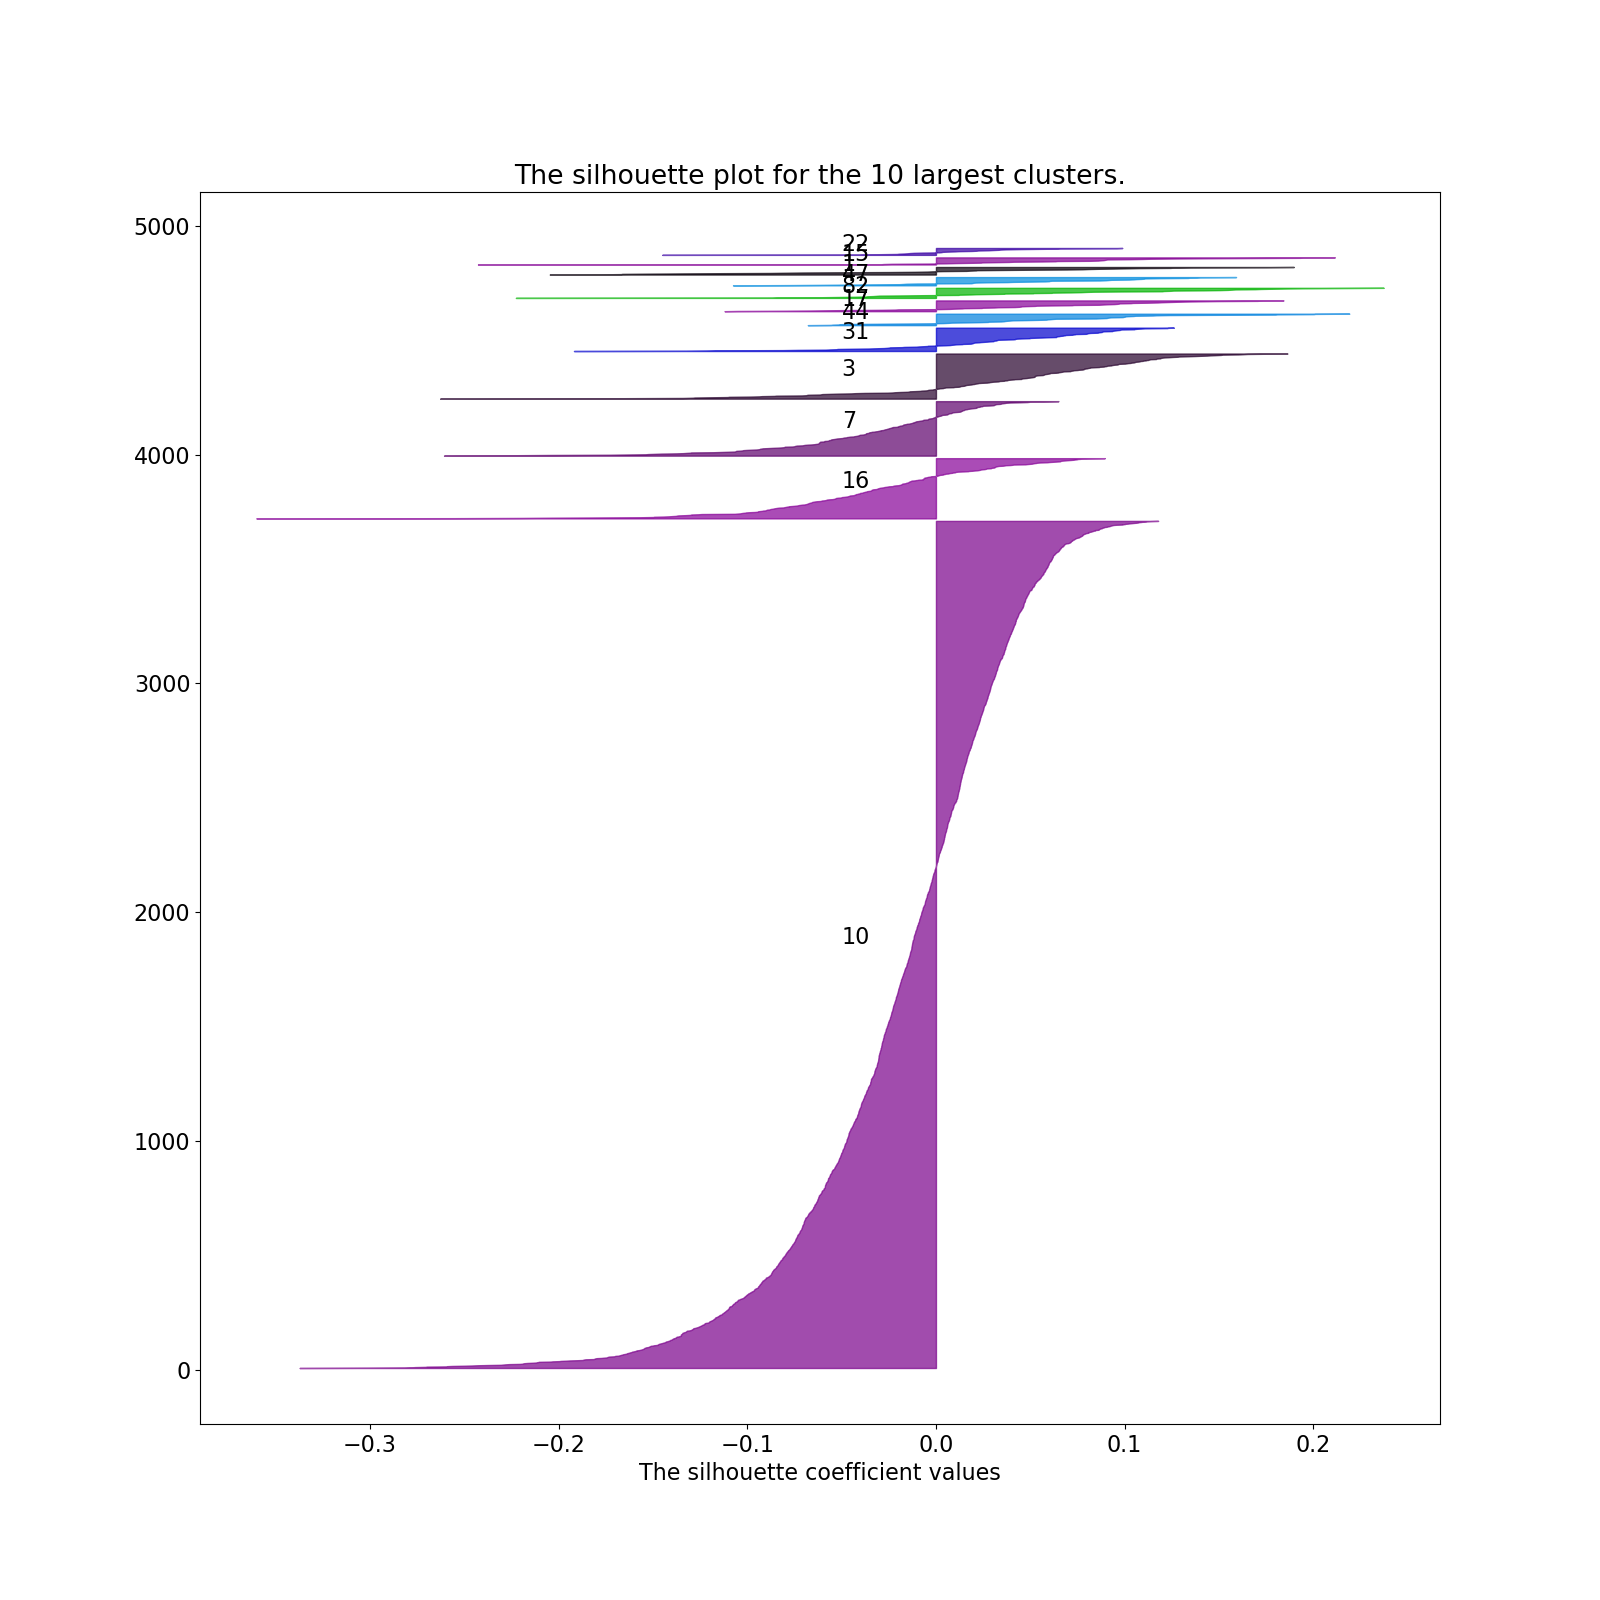
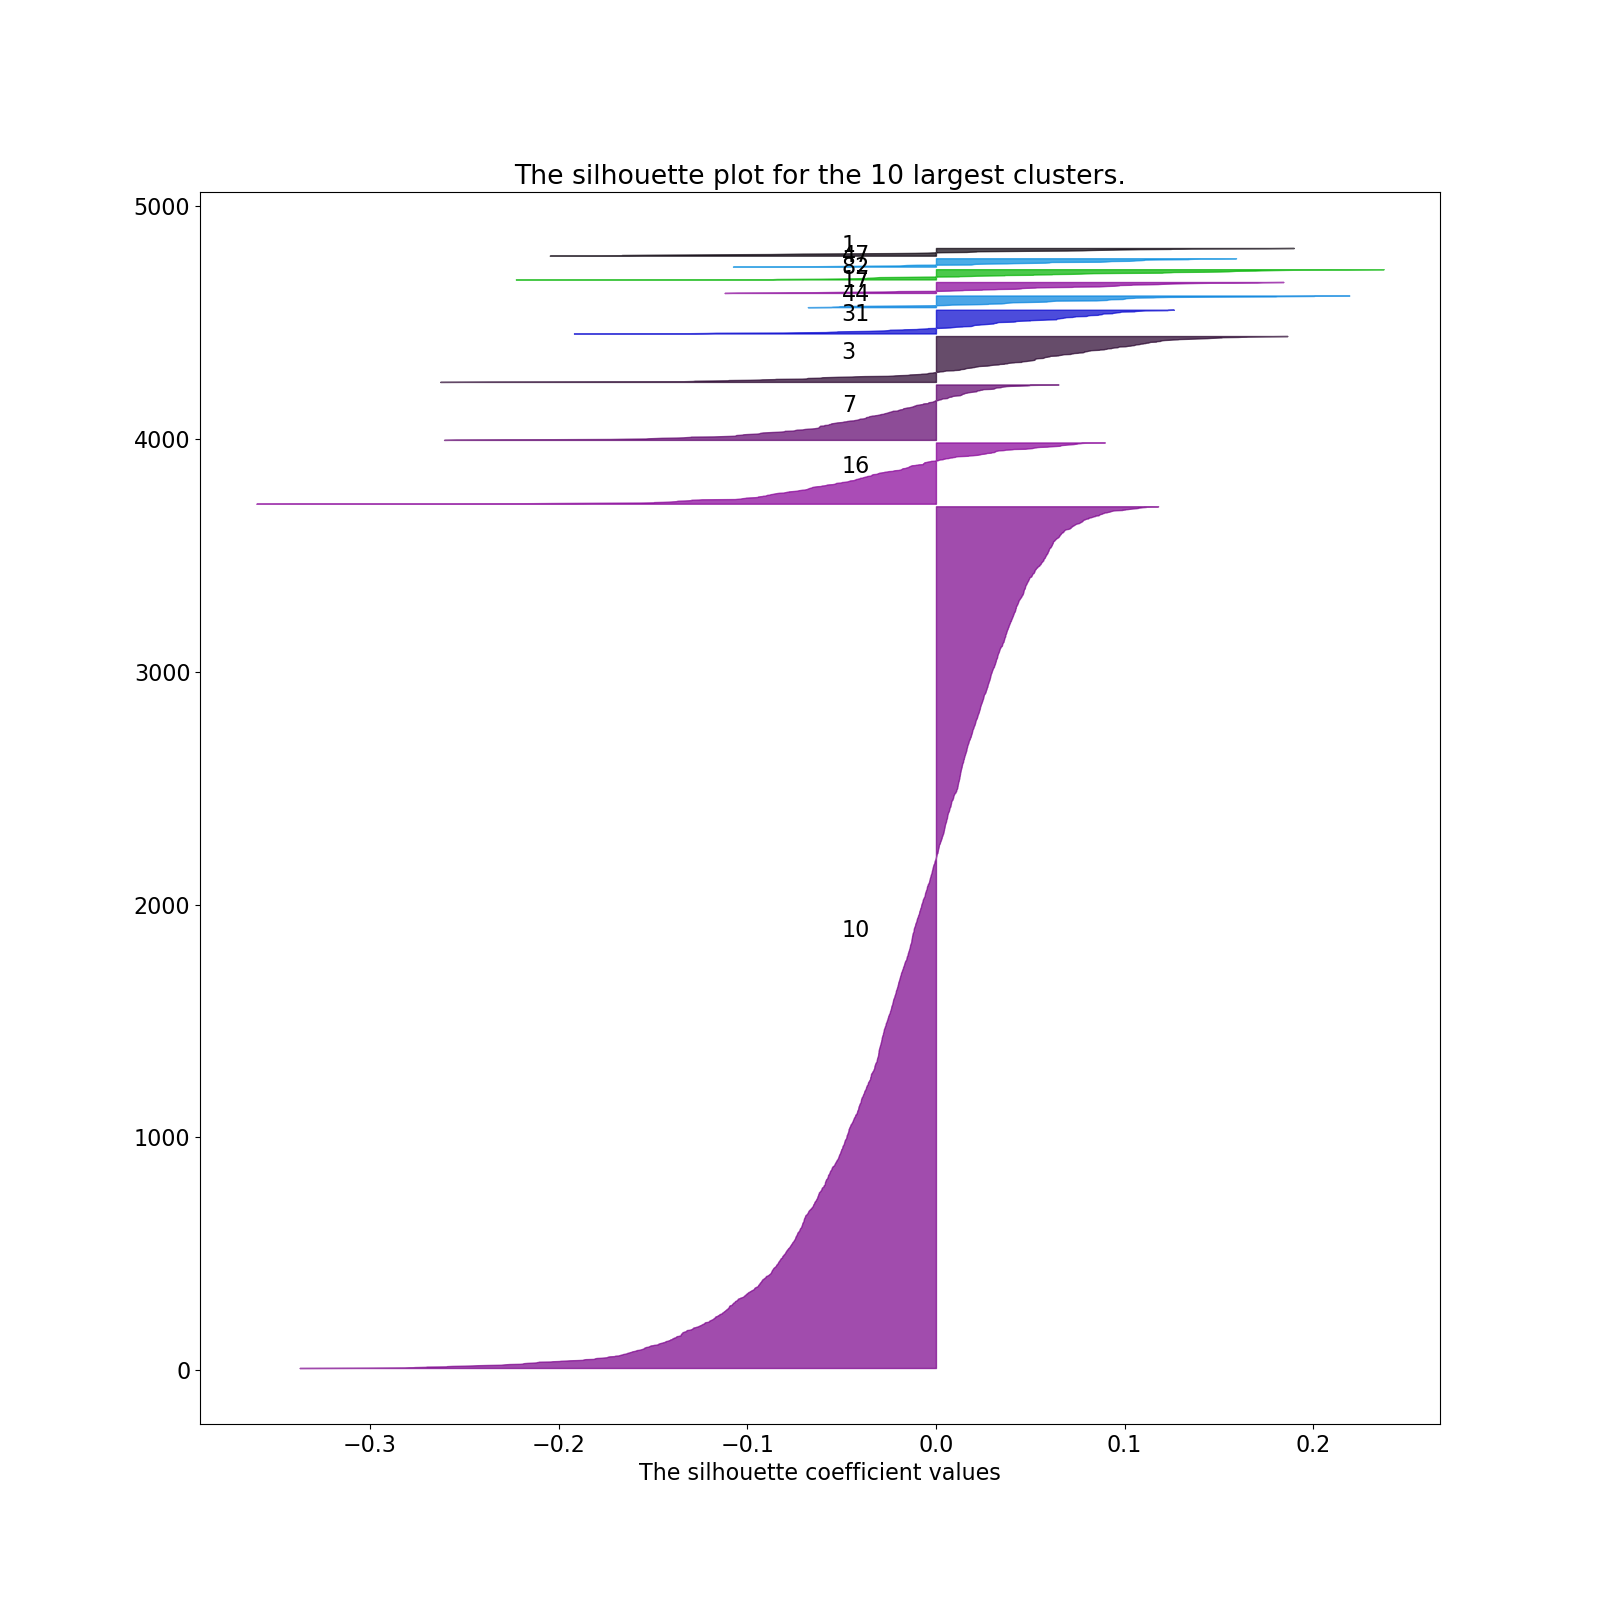
minor

diff --git a/pocket_cluster_analysis/subcluster_gen.py b/pocket_cluster_analysis/subcluster_gen.py
@@ -3,6 +3,8 @@ import numpy as np
 from compute_similarity import read_cluster_file
 from sklearn.cluster import AffinityPropagation
 from sklearn.cluster import AgglomerativeClustering
+from sklearn.cluster import AgglomerativeClustering
+from sklearn.cluster import DBSCAN
 from sklearn_extra.cluster import KMedoids
 from sklearn import metrics
 import matplotlib
@@ -79,7 +81,7 @@ def plot_silhouette_scores(silhouette_scores, cluster_labels, num_clusters_to_pl
         # Compute the new y_lower for next plot
         y_lower = y_upper + 10  # 10 for the 0 samples      
 
-        if cnt > num_clusters_to_plot:
+        if cnt >= num_clusters_to_plot-1:
             break
 
     ax.set_title("The silhouette plot for the {} largest clusters.".format(num_clusters_to_plot))
@@ -134,11 +136,15 @@ if __name__=="__main__":
         kmedoids_clustering = KMedoids(n_clusters=k, init='k-medoids++', metric='precomputed').fit(dist_mat)
         subcluster_labels = kmedoids_clustering.labels_
 
+        #db_clustering = DBSCAN(eps=0.4, metric='precomputed').fit(dist_mat)
+        #subcluster_labels = db_clustering.labels_
+        #k = len(list(set(subcluster_labels))) # get number of clusters
+
         # evaluate clustering results
         silhouette_scores = metrics.silhouette_samples(dist_mat, subcluster_labels, metric='precomputed')
         print('number of subclusters: {}, Silhouette score: {}'.format(k, np.mean(silhouette_scores)))
 
-        plot_silhouette_scores(silhouette_scores, subcluster_labels, num_clusters_to_plot=20)
+        plot_silhouette_scores(silhouette_scores, subcluster_labels, num_clusters_to_plot=10)
 
 
         '''
